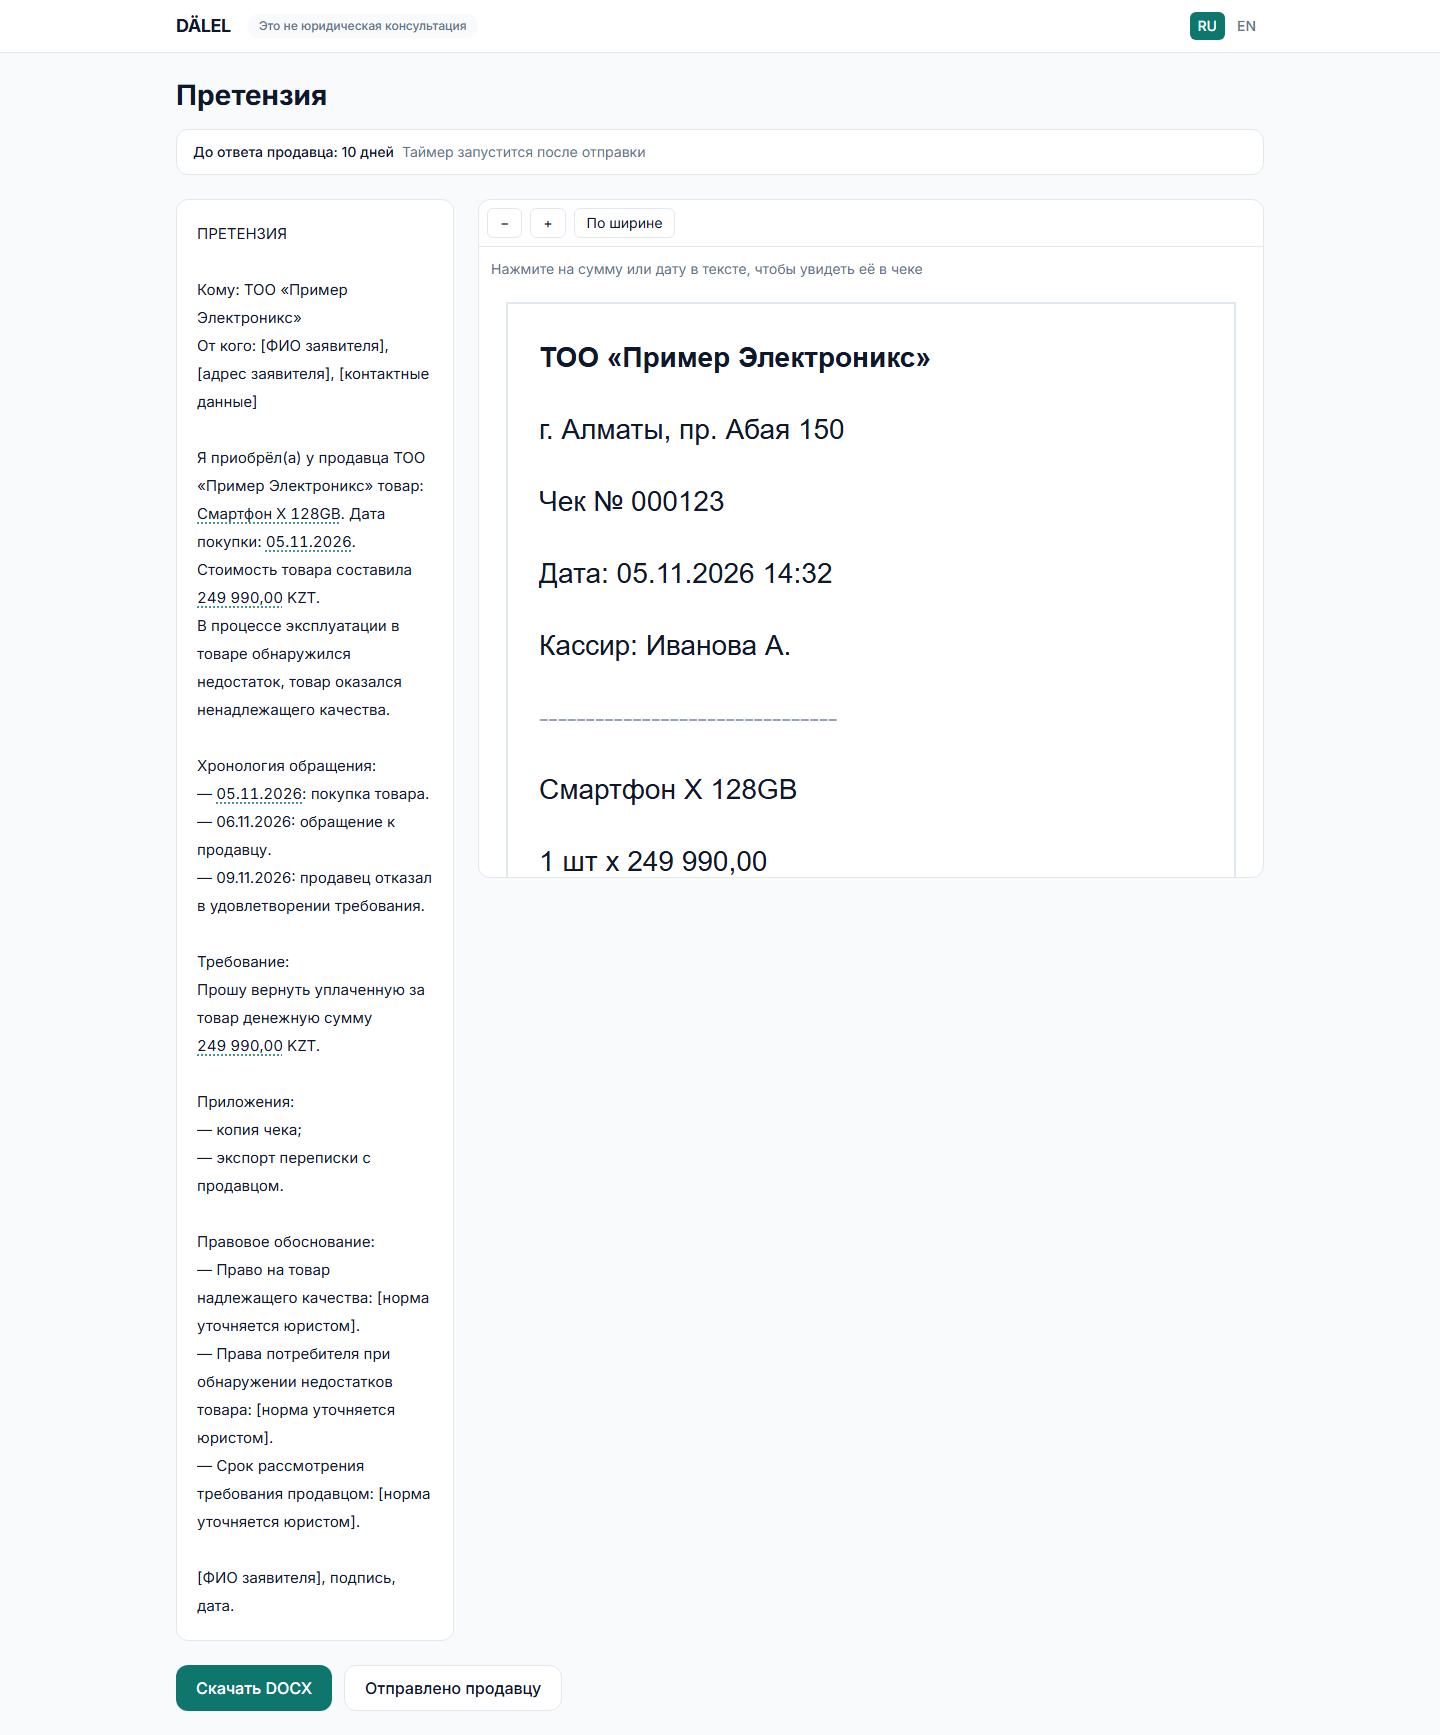
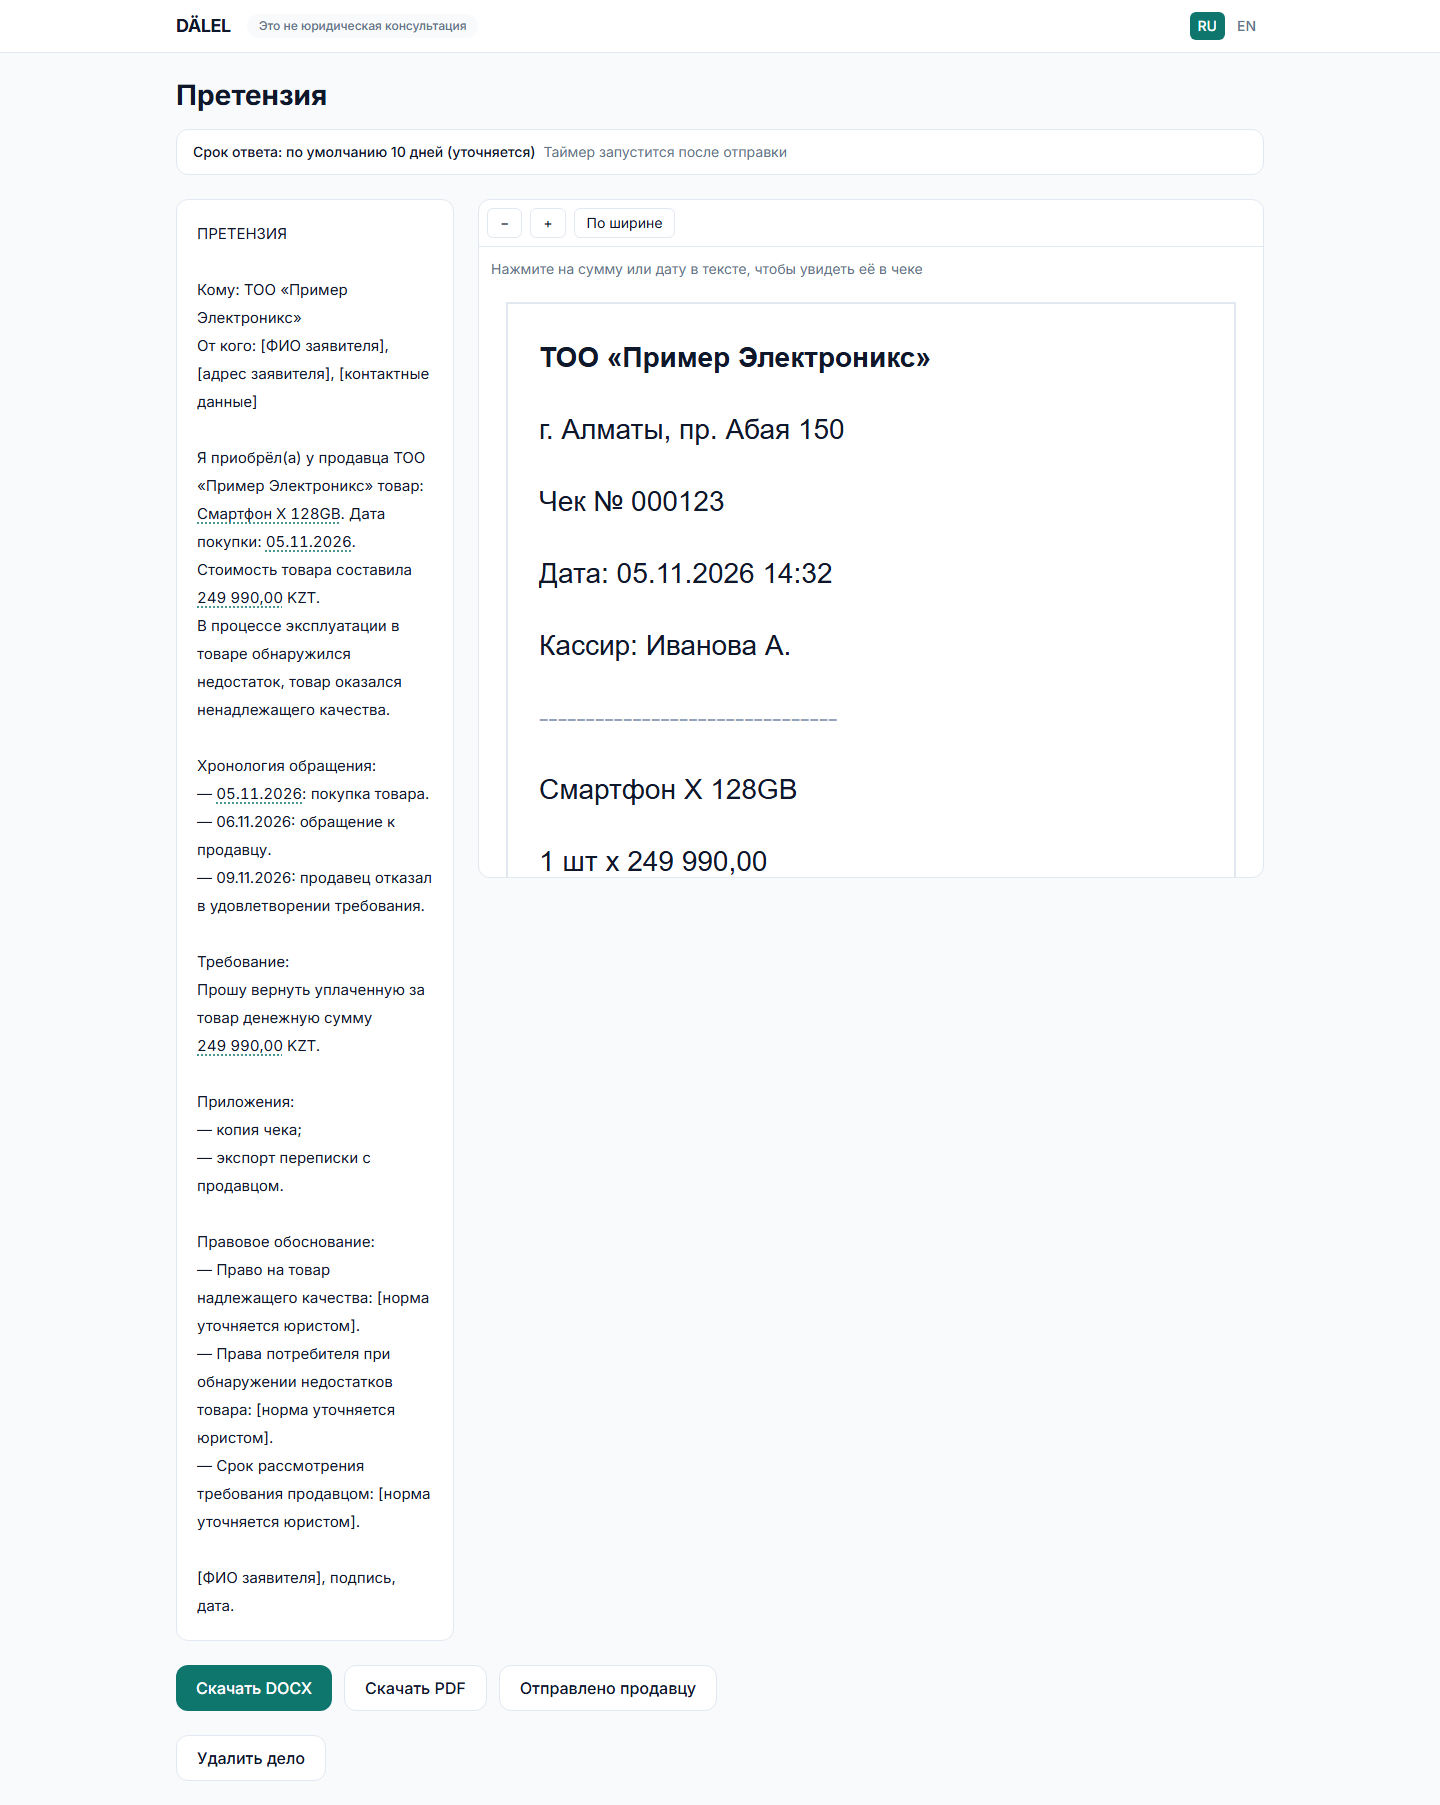
Шаг 10: фронтенд — mp4, источник события, кнопка PDF, скриншоты
- UploadPage: приём .mp4 (accept + guessKind video->photo), текст
  принимаемых типов обновлён.
- Timeline: бейдж источника события (WhatsApp/Telegram по message_id).
- ClaimPage: кнопка «Скачать PDF»; при 503 показывает текст сервера и
  не падает. Клиенты exportClaim расширены до docx|pdf; mock отдаёт
  те же 503, что бэкенд без LibreOffice.
- Скриншоты 1440x900 и 390x844 в mock и http; скрипт поправлен под
  HashRouter и EN-дефолт (ru/consent через storage). typecheck/build/
  build:mock зелёные.

diff --git a/frontend/src/components/Timeline.tsx b/frontend/src/components/Timeline.tsx
@@ -2,27 +2,44 @@ import type { TimelineEvent } from "../api/types";
 import { useI18n } from "../i18n";
 import { fmtDate } from "../util/format";
 
+// Source is inferred from the message_id shape: WhatsApp events use "line:N",
+// Telegram events use the numeric message id.
+function eventSource(messageId?: string | null): "whatsapp" | "telegram" | null {
+  if (!messageId) return null;
+  if (messageId.startsWith("line:")) return "whatsapp";
+  if (/^\d+$/.test(messageId)) return "telegram";
+  return null;
+}
+
 export function Timeline({ events }: { events: TimelineEvent[] }) {
   const { t } = useI18n();
   return (
     <ol className="relative ml-3 border-l border-border">
-      {events.map((e) => (
-        <li key={e.id} className="relative mb-6 pl-6 last:mb-0">
-          <span
-            className="absolute -left-[7px] top-1.5 h-3 w-3 rounded-full bg-accent"
-            aria-hidden="true"
-          />
-          <div className="flex items-baseline gap-2">
-            <span className="tabular text-sm font-medium text-muted">
-              {fmtDate(e.date)}
-            </span>
-            <span className="rounded-full bg-bg px-2 py-0.5 text-xs font-medium text-text">
-              {t(`event.${e.kind}`)}
-            </span>
-          </div>
-          <p className="mt-1 text-sm text-text">{e.description}</p>
-        </li>
-      ))}
+      {events.map((e) => {
+        const source = eventSource(e.message_id);
+        return (
+          <li key={e.id} className="relative mb-6 pl-6 last:mb-0">
+            <span
+              className="absolute -left-[7px] top-1.5 h-3 w-3 rounded-full bg-accent"
+              aria-hidden="true"
+            />
+            <div className="flex flex-wrap items-baseline gap-2">
+              <span className="tabular text-sm font-medium text-muted">
+                {fmtDate(e.date)}
+              </span>
+              <span className="rounded-full bg-bg px-2 py-0.5 text-xs font-medium text-text">
+                {t(`event.${e.kind}`)}
+              </span>
+              {source && (
+                <span className="rounded-full border border-border px-2 py-0.5 text-xs font-medium text-muted">
+                  {t(`source.${source}`)}
+                </span>
+              )}
+            </div>
+            <p className="mt-1 text-sm text-text">{e.description}</p>
+          </li>
+        );
+      })}
     </ol>
   );
 }

diff --git a/frontend/src/pages/ClaimPage.tsx b/frontend/src/pages/ClaimPage.tsx
@@ -76,6 +76,7 @@ export function ClaimPage() {
   const [needConfirm, setNeedConfirm] = useState(false);
   const [loading, setLoading] = useState(true);
   const [error, setError] = useState<string | null>(null);
+  const [pdfNote, setPdfNote] = useState<string | null>(null);
 
   const load = useCallback(async () => {
     if (!token) return;
@@ -122,6 +123,23 @@ export function ClaimPage() {
     a.download = `pretenziya_case_${caseId}.docx`;
     a.click();
     URL.revokeObjectURL(url);
+  }
+
+  async function downloadPdf() {
+    if (!token) return;
+    setPdfNote(null);
+    try {
+      const blob = await api.exportClaim(caseId, token, "pdf");
+      const url = URL.createObjectURL(blob);
+      const a = document.createElement("a");
+      a.href = url;
+      a.download = `pretenziya_case_${caseId}.pdf`;
+      a.click();
+      URL.revokeObjectURL(url);
+    } catch (e) {
+      // LibreOffice may be absent (503): show the server's message, do not crash.
+      setPdfNote(e instanceof ApiError ? e.message : t("common.error"));
+    }
   }
 
   async function markSent() {
@@ -228,11 +246,21 @@ export function ClaimPage() {
       </div>
 
       {!violations && claim && (
-        <div className="mt-6 flex flex-wrap gap-3">
-          <Button onClick={download}>{t("claim.download")}</Button>
-          <Button variant="secondary" onClick={markSent}>
-            {t("claim.markSent")}
-          </Button>
+        <div className="mt-6">
+          <div className="flex flex-wrap gap-3">
+            <Button onClick={download}>{t("claim.download")}</Button>
+            <Button variant="secondary" onClick={downloadPdf}>
+              {t("claim.downloadPdf")}
+            </Button>
+            <Button variant="secondary" onClick={markSent}>
+              {t("claim.markSent")}
+            </Button>
+          </div>
+          {pdfNote && (
+            <p className="mt-3 text-sm text-muted" role="status">
+              {pdfNote}
+            </p>
+          )}
         </div>
       )}
       <div className="mt-6">

diff --git a/frontend/src/i18n/ru.ts b/frontend/src/i18n/ru.ts
@@ -14,7 +14,7 @@ export const ru: Record<string, string> = {
   "upload.title": "Новое дело",
   "upload.subtitle": "Загрузите чек и переписку. Мы соберём поля и хронологию.",
   "upload.drop": "Перетащите файлы или нажмите, чтобы выбрать",
-  "upload.accepted": "Принимаются jpeg, png, pdf, txt, json. До 15 МБ.",
+  "upload.accepted": "Принимаются jpeg, png, pdf, txt, json, mp4. До 15 МБ.",
   "upload.kindLabel": "Тип файла",
   "upload.remove": "Удалить",
   "upload.analyze": "Разобрать",
@@ -58,6 +58,9 @@ export const ru: Record<string, string> = {
   "claim.timerBefore": "Срок ответа: по умолчанию 10 дней (уточняется)",
   "claim.deadlineDate": "Ответ до {date} (осталось дней: {n})",
   "claim.download": "Скачать DOCX",
+  "claim.downloadPdf": "Скачать PDF",
+  "source.whatsapp": "WhatsApp",
+  "source.telegram": "Telegram",
   "claim.markSent": "Отправлено продавцу",
   "claim.sent": "Отправлено",
   "claim.blocked": "Экспорт заблокирован",

diff --git a/frontend/src/i18n/en.ts b/frontend/src/i18n/en.ts
@@ -14,7 +14,7 @@ export const en: Record<string, string> = {
   "upload.title": "New case",
   "upload.subtitle": "Upload the receipt and chat. We will extract fields and build a timeline.",
   "upload.drop": "Drag files here or click to choose",
-  "upload.accepted": "Accepted: jpeg, png, pdf, txt, json. Up to 15 MB.",
+  "upload.accepted": "Accepted: jpeg, png, pdf, txt, json, mp4. Up to 15 MB.",
   "upload.kindLabel": "File type",
   "upload.remove": "Remove",
   "upload.analyze": "Analyze",
@@ -58,6 +58,9 @@ export const en: Record<string, string> = {
   "claim.timerBefore": "Response deadline: default 10 days (to be confirmed)",
   "claim.deadlineDate": "Due by {date} ({n} days left)",
   "claim.download": "Download DOCX",
+  "claim.downloadPdf": "Download PDF",
+  "source.whatsapp": "WhatsApp",
+  "source.telegram": "Telegram",
   "claim.markSent": "Mark as sent",
   "claim.sent": "Sent",
   "claim.blocked": "Export blocked",

diff --git a/frontend/src/api/mockClient.ts b/frontend/src/api/mockClient.ts
@@ -1,4 +1,4 @@
-import { ApiClient } from "./client";
+import { ApiClient, ApiError } from "./client";
 import type {
   CaseCreated,
   CaseDetail,
@@ -107,7 +107,20 @@ export class MockClient implements ApiClient {
     });
   }
 
-  async exportClaim(): Promise<Blob> {
+  async exportClaim(
+    _caseId: number,
+    _token: string,
+    format: "docx" | "pdf" = "docx",
+  ): Promise<Blob> {
+    // Mock has no LibreOffice, so PDF mirrors the real 503 the backend returns.
+    if (format === "pdf") {
+      await this.delay(null);
+      throw new ApiError(
+        503,
+        "LibreOffice (soffice) не найден. Установите LibreOffice и задайте " +
+          "SOFFICE_PATH в .env, либо экспортируйте DOCX.",
+      );
+    }
     // Mock export: a plain-text stand-in (not a real .docx).
     return this.delay(
       new Blob([mockClaimText], { type: "text/plain;charset=utf-8" }),

diff --git a/frontend/src/pages/UploadPage.tsx b/frontend/src/pages/UploadPage.tsx
@@ -30,6 +30,7 @@ function readConsent(): boolean {
 // The first image is assumed to be the receipt; further images are defect photos.
 function guessKind(file: File, haveReceipt: boolean): DocumentKind {
   if (file.type.startsWith("image/")) return haveReceipt ? "photo" : "receipt";
+  if (file.type.startsWith("video/") || file.name.endsWith(".mp4")) return "photo";
   if (file.name.endsWith(".txt") || file.name.endsWith(".json")) return "chat";
   return "receipt";
 }
@@ -163,7 +164,7 @@ export function UploadPage() {
             ref={inputRef}
             type="file"
             multiple
-            accept=".jpg,.jpeg,.png,.pdf,.txt,.json"
+            accept=".jpg,.jpeg,.png,.pdf,.txt,.json,.mp4"
             className="hidden"
             onChange={(e) => addFiles(e.target.files)}
           />

diff --git a/frontend/src/mock/data.ts b/frontend/src/mock/data.ts
@@ -83,6 +83,7 @@ export const mockEvents: TimelineEvent[] = [
     kind: "contact",
     description: "Первое обращение к продавцу: «экран мигает и сильно греется»",
     document_id: 2,
+    message_id: "line:0",
     needs_review: true,
   },
   {
@@ -91,6 +92,7 @@ export const mockEvents: TimelineEvent[] = [
     kind: "refusal",
     description: "Отказ продавца: «вернуть деньги не можем, случай не гарантийный»",
     document_id: 2,
+    message_id: "line:3",
     needs_review: true,
   },
 ];

diff --git a/frontend/src/api/client.ts b/frontend/src/api/client.ts
@@ -50,7 +50,7 @@ export interface ApiClient {
   getMissing(caseId: number, token: string): Promise<MissingItem[]>;
   getChecks(caseId: number, token: string): Promise<CheckResult[]>;
   createClaim(caseId: number, token: string): Promise<Claim>;
-  exportClaim(caseId: number, token: string, format: "docx"): Promise<Blob>;
+  exportClaim(caseId: number, token: string, format: "docx" | "pdf"): Promise<Blob>;
   markSent(caseId: number, token: string): Promise<MarkSent>;
   getReceiptLines(
     caseId: number,

diff --git a/frontend/src/api/httpClient.ts b/frontend/src/api/httpClient.ts
@@ -141,7 +141,7 @@ export class HttpClient implements ApiClient {
   async exportClaim(
     caseId: number,
     token: string,
-    format: "docx",
+    format: "docx" | "pdf",
   ): Promise<Blob> {
     const resp = await fetch(
       `${BASE}/cases/${caseId}/export?format=${format}`,

diff --git a/docs/PLAN_TODAY.md b/docs/PLAN_TODAY.md
@@ -152,3 +152,4 @@
 | 7 | PDF через LibreOffice: `export_pdf` (DOCX→soffice --convert-to pdf), поиск soffice (`SOFFICE_PATH`→PATH→стандартные пути), нет soffice → **503** с текстом; неизвестный формат → 400. | +4 теста (503 на сервисе и API, skip-конвертация, 400); всего **73 passed, 1 skipped** | LibreOffice на машине нет → PDF отдаёт 503 (ожидаемо). Для реального PDF: установить LibreOffice и задать SOFFICE_PATH. |
 | 8 | Проверки фото на Pillow: P1 разрешение, P2 размытость (FIND_EDGES+дисперсия), P3 экспозиция, P4 EXIF-дата < даты покупки (warning, не блок). Пороги в validation.yaml. EXIF-поворот и M3 уже были. `CheckResult.document_ids`. | +`tests/test_photo_checks.py` (4 теста); backend **77 passed, 1 skipped**; typecheck+build зелёные | Без OpenCV. Распознавания дефекта нет. Пороги подобраны эвристически (нет реальных фото). |
 | 9 | mp4 как доказательство: `.mp4`→`video/mp4` в `ALLOWED_TYPES`, kind=photo, лимит 15 МБ (уже был). Видео не анализируется (OCR и фото-проверки его пропускают), но закрывает M3. | +`tests/test_video.py` (2 теста); всего **79 passed, 1 skipped** | Содержимое видео не разбирается — только хранение как доказательство. |
+| 10 | Фронтенд: приём `.mp4` (accept + guessKind video→photo), бейдж источника события (WhatsApp/Telegram по `message_id`) в Timeline, кнопка «Скачать PDF» (при 503 показывает текст сервера, не падает). Скриншоты 1440×900 и 390×844 в mock и http (`frontend/screenshots/`). | typecheck+build+build:mock зелёные; 12 скриншотов сняты (Chromium установлен) | Скрипт скриншотов поправлен под HashRouter и EN-дефолт (ставит ru/consent через storage). mock-клиент для PDF отдаёт те же 503-текст. |
